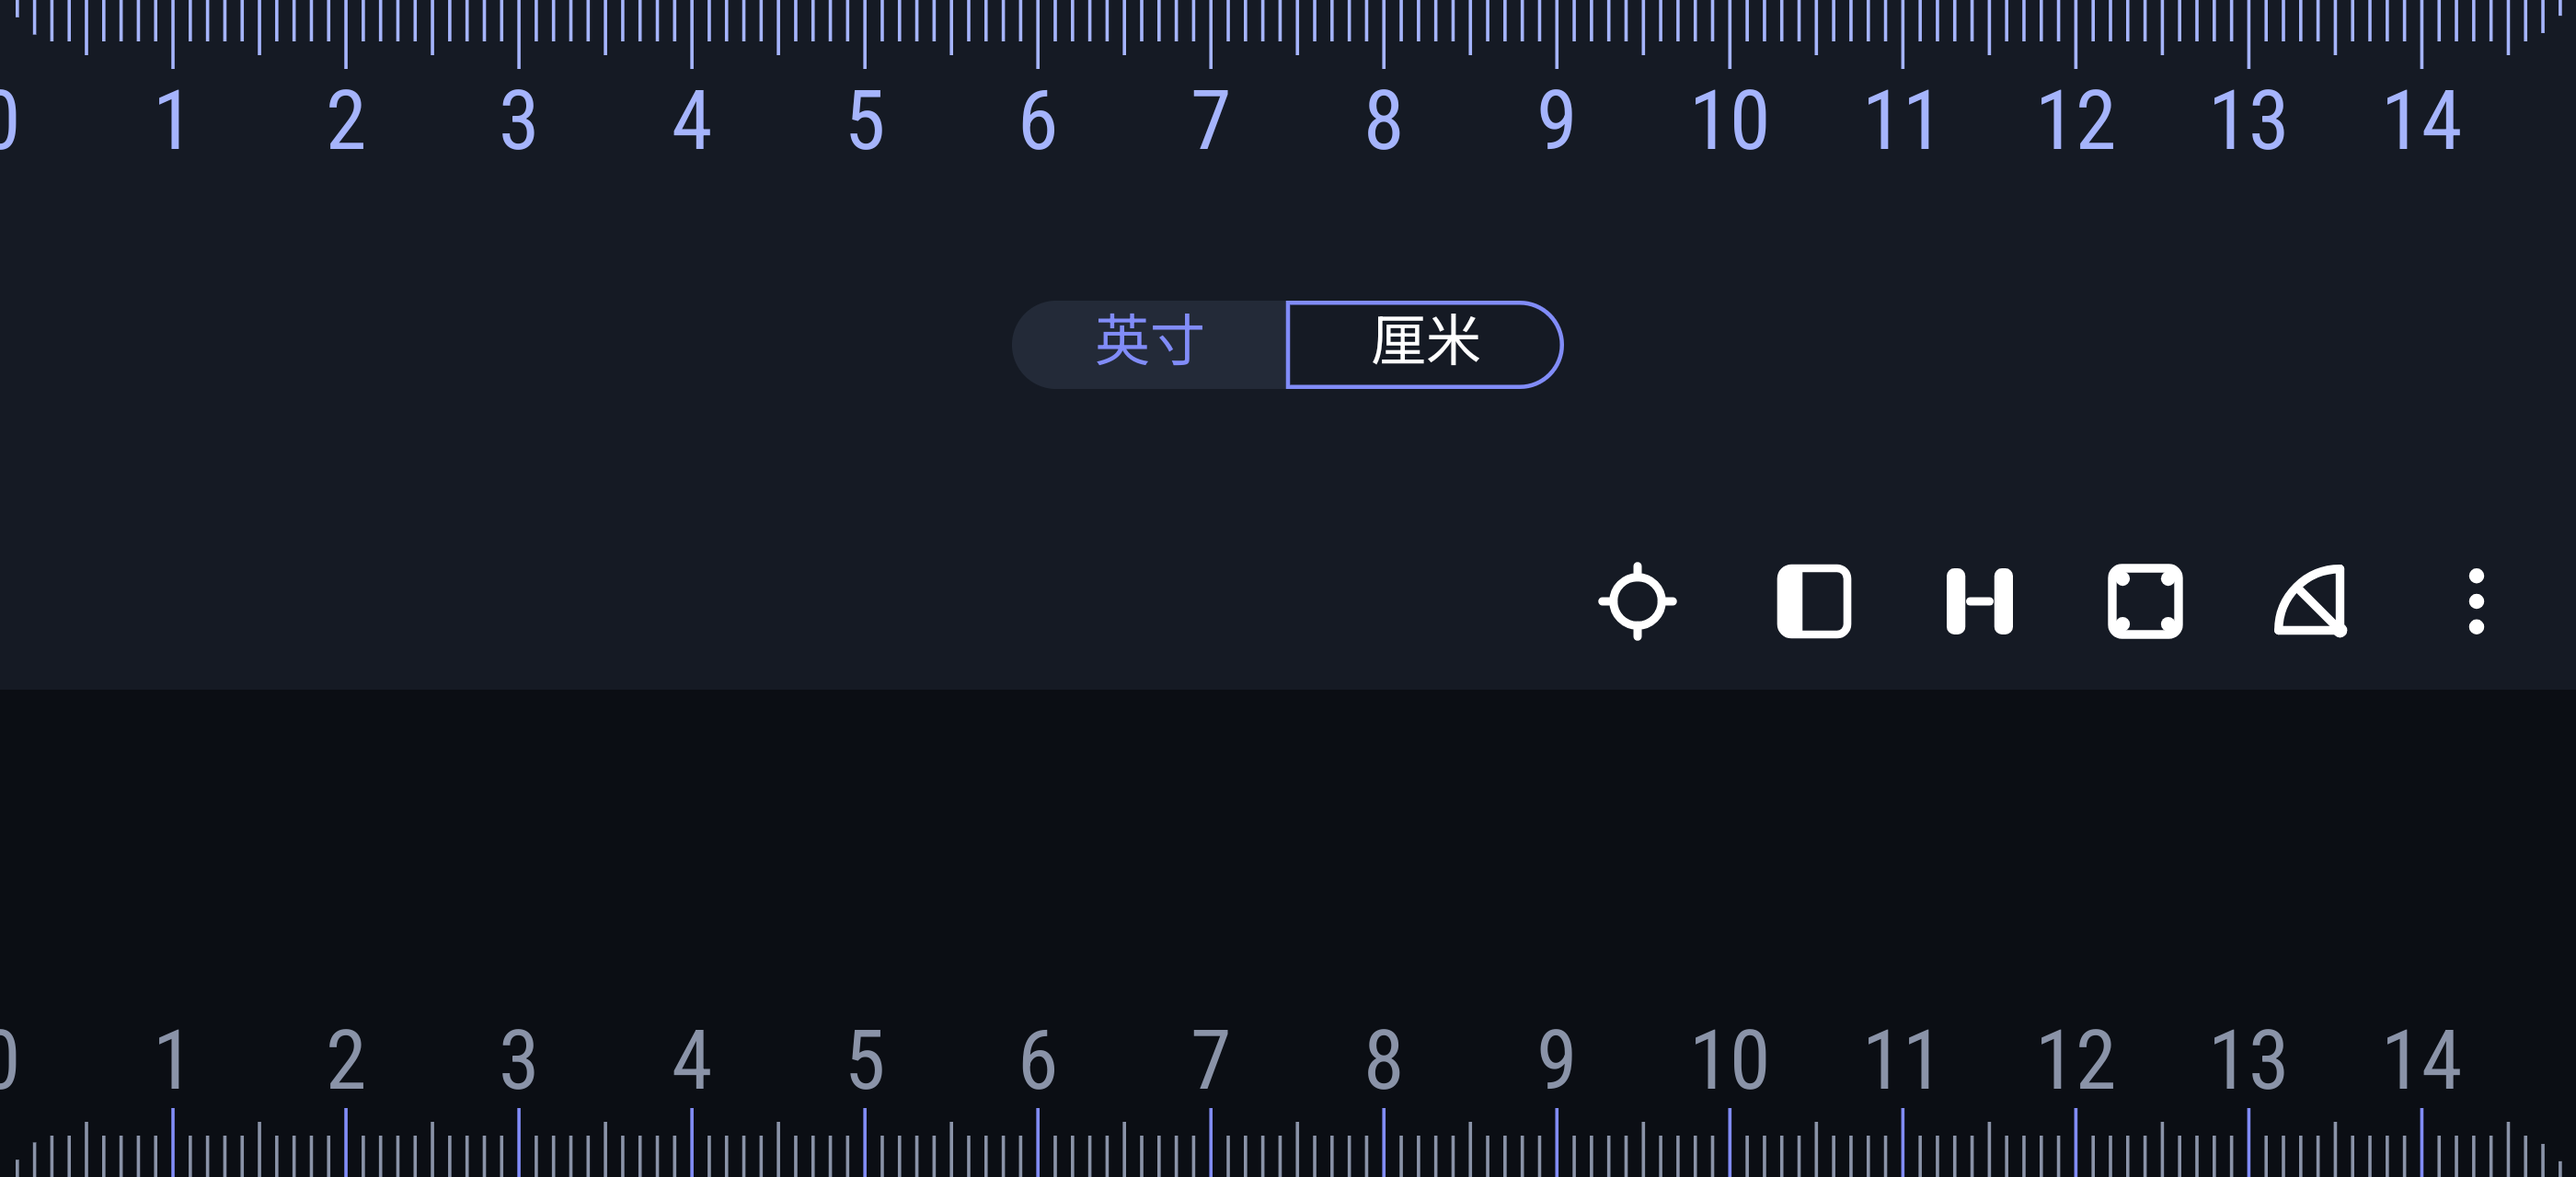
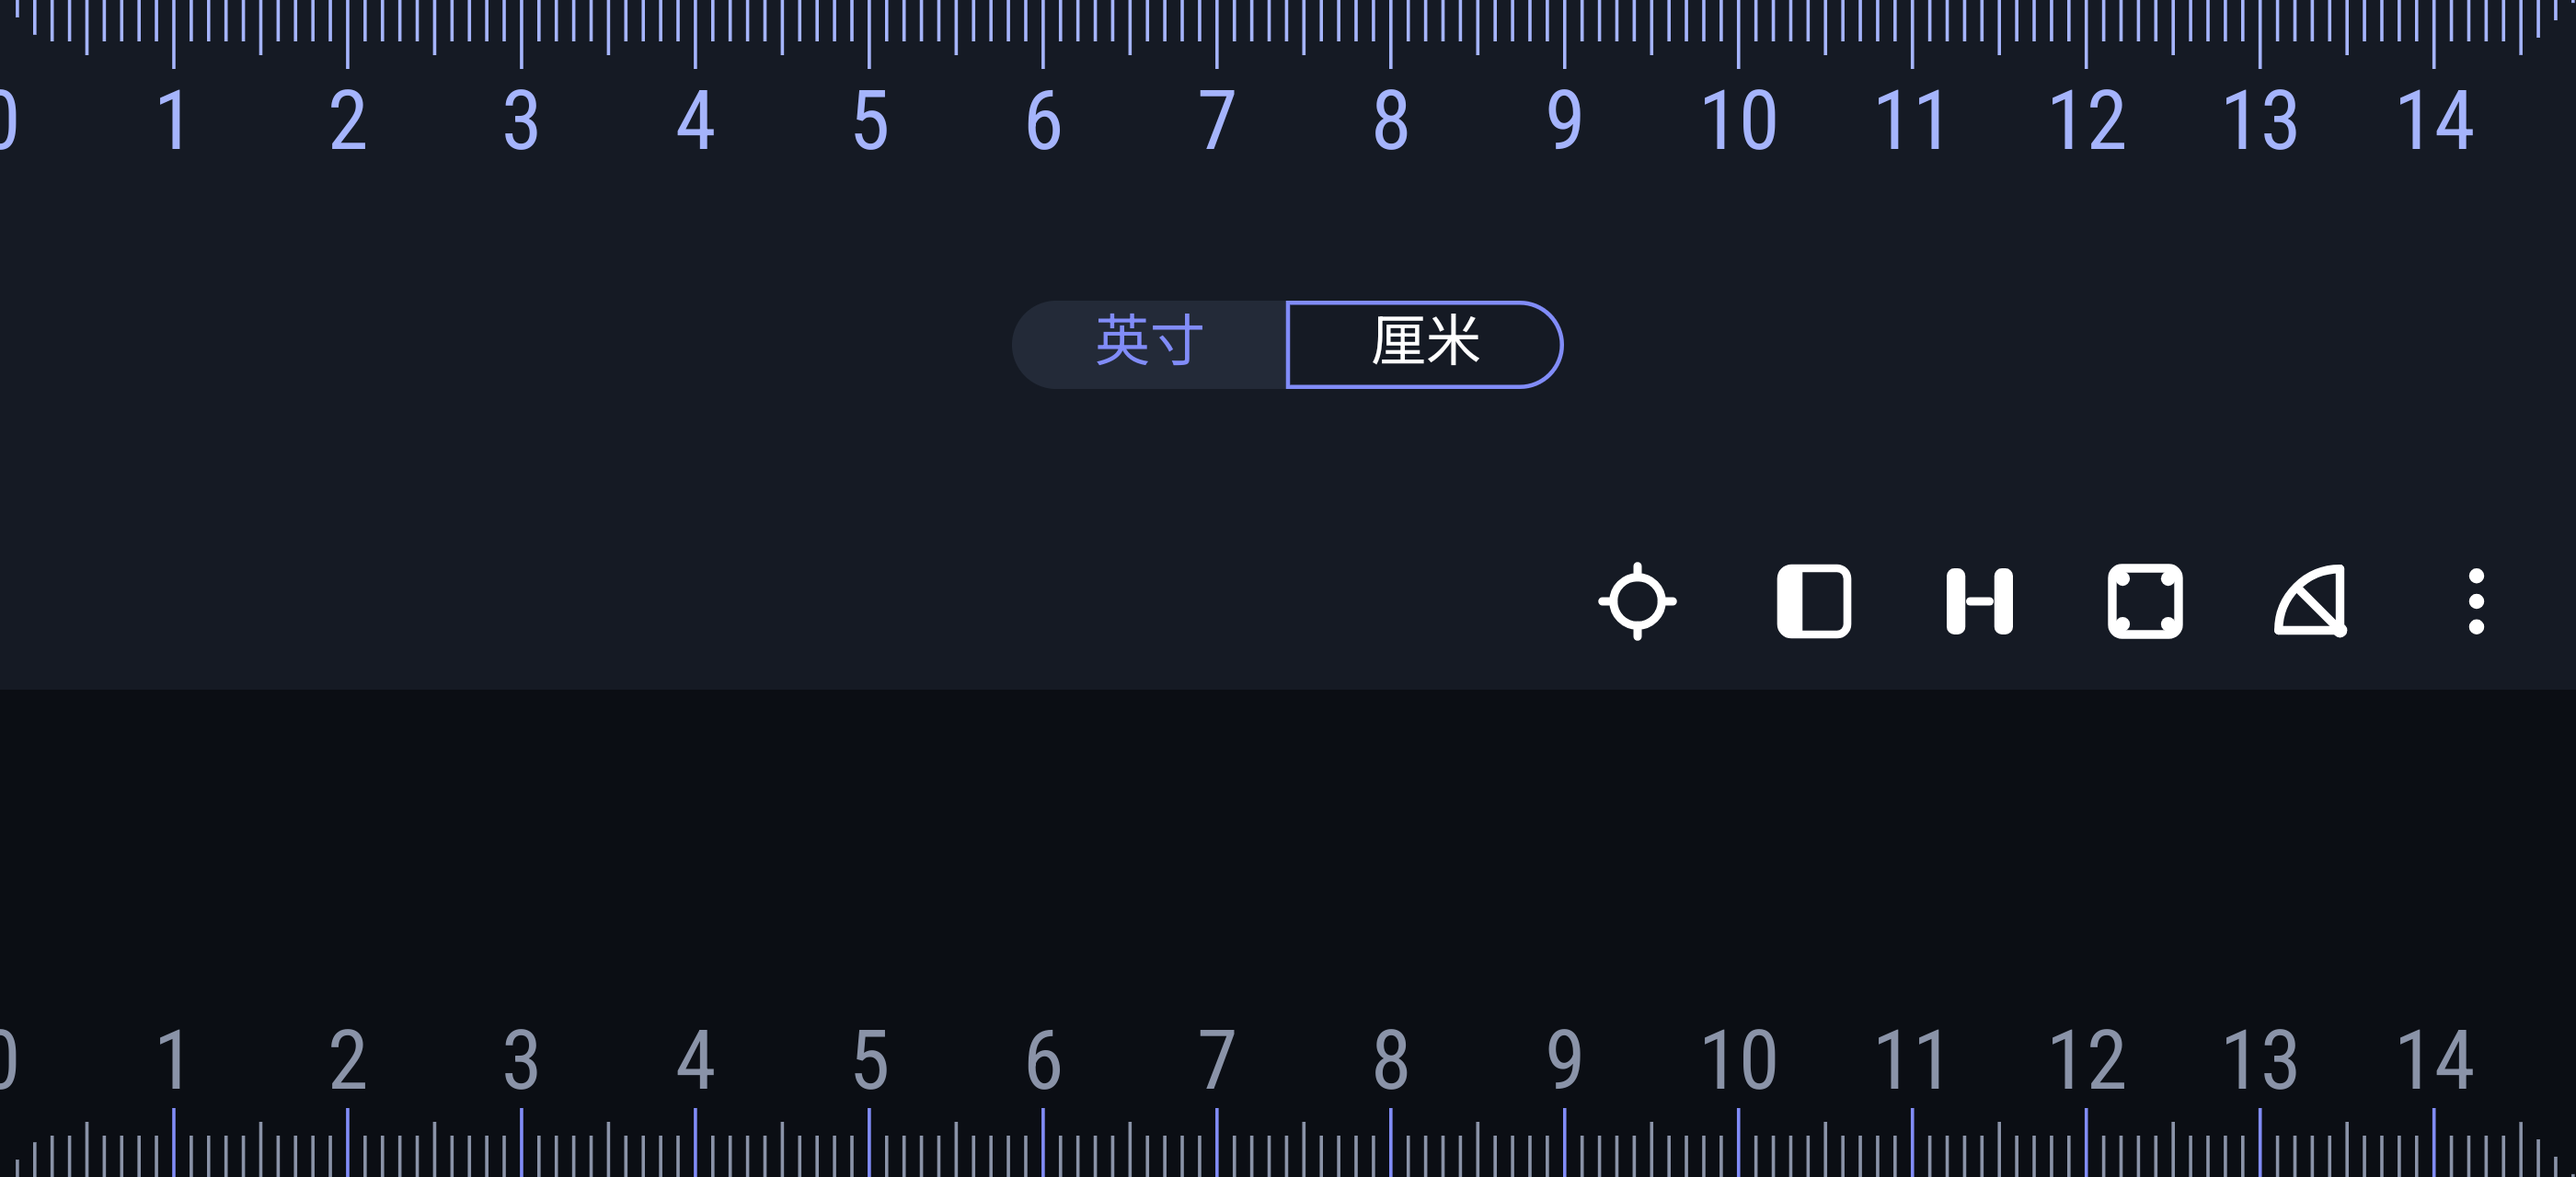
Use one accent colour for every measuring tool, and no tool switch animation
Single point, two points, rectangle and protractor each carried their own
hue, so the app changed palette four times over. They now all draw with the
theme accent: ruler ticks, handles, readouts, the rectangle and the protractor
wedge. The per-mode colour table and the matching colour resources are gone.

The tool bar used to slide out over 220 ms when a tool started; it is shown
and hidden directly now, so switching tools has no animation at all.

diff --git a/app/src/main/java/org/openruler/app/view/MeasureView.kt b/app/src/main/java/org/openruler/app/view/MeasureView.kt
@@ -212,23 +212,23 @@ class MeasureView @JvmOverloads constructor(
     override fun onDraw(canvas: Canvas) {
         super.onDraw(canvas)
         if (width == 0 || height == 0) return
-        val modeColor = palette.colorOf(mode)
+        val toolColor = palette.accent
         val r = rect
 
-        fillPaint.color = modeColor
+        fillPaint.color = toolColor
         canvas.drawRect(r, fillPaint)
 
-        handlePaint.color = dim(modeColor, 0.7f)
+        handlePaint.color = dim(toolColor, 0.7f)
         canvas.drawLine(right.x, r.top, right.x, r.bottom, handlePaint)
         if (mode == MeasureMode.FOUR_POINT) {
             canvas.drawLine(r.left, right.y, r.right, right.y, handlePaint)
         }
 
-        linePaint.color = modeColor
-        valuePaint.color = modeColor
-        unitPaint.color = modeColor
-        smallPaint.color = modeColor
-        areaPaint.color = modeColor
+        linePaint.color = toolColor
+        valuePaint.color = toolColor
+        unitPaint.color = toolColor
+        smallPaint.color = toolColor
+        areaPaint.color = toolColor
 
         val unitText = unitLabel()
         val valueText = String.format(Locale.ROOT, "%.2f", measuredWidthValue)
@@ -248,11 +248,11 @@ class MeasureView @JvmOverloads constructor(
             val widthCenter = r.centerX()
                 .coerceInSafe(widthBlock / 2f + margin, width - widthBlock / 2f - margin)
             val widthLeft = widthCenter - widthBlock / 2f
-            drawDualText(canvas, valueText, widthLeft + valueWidth, widthBaseline, valuePaint, r, modeColor)
-            drawDualText(canvas, unitText, widthLeft + valueWidth + margin, widthBaseline, smallPaint, r, modeColor)
+            drawDualText(canvas, valueText, widthLeft + valueWidth, widthBaseline, valuePaint, r, toolColor)
+            drawDualText(canvas, unitText, widthLeft + valueWidth + margin, widthBaseline, smallPaint, r, toolColor)
             drawWidthDimension(
                 canvas, r, widthBaseline - textHeight / 2f,
-                widthLeft - margin, widthLeft + widthBlock + margin, modeColor
+                widthLeft - margin, widthLeft + widthBlock + margin, toolColor
             )
 
             // Height of the rectangle: dimension line on the right, label in the middle of it.
@@ -261,11 +261,11 @@ class MeasureView @JvmOverloads constructor(
                 .coerceInSafe(textHeight + margin, height - margin)
             val heightLeft = (r.right + margin)
                 .coerceAtMost(width - heightBlock - margin)
-            drawDualText(canvas, heightText, heightLeft + heightWidth, heightBaseline, valuePaint, r, modeColor)
-            drawDualText(canvas, unitText, heightLeft + heightWidth + margin, heightBaseline, smallPaint, r, modeColor)
+            drawDualText(canvas, heightText, heightLeft + heightWidth, heightBaseline, valuePaint, r, toolColor)
+            drawDualText(canvas, unitText, heightLeft + heightWidth + margin, heightBaseline, smallPaint, r, toolColor)
             drawHeightDimension(
                 canvas, r, heightLeft + heightBlock / 2f,
-                heightBaseline - textHeight - margin, heightBaseline + margin, modeColor
+                heightBaseline - textHeight - margin, heightBaseline + margin, toolColor
             )
 
             drawArea(canvas, unitText)
@@ -276,8 +276,8 @@ class MeasureView @JvmOverloads constructor(
                 r.right + margin,
                 width - margin - valueWidth - unitWidth - margin
             ).coerceAtLeast(margin)
-            drawDualText(canvas, valueText, blockStart + valueWidth, baseline, valuePaint, r, modeColor)
-            drawDualText(canvas, unitText, blockStart + valueWidth + margin, baseline, smallPaint, r, modeColor)
+            drawDualText(canvas, valueText, blockStart + valueWidth, baseline, valuePaint, r, toolColor)
+            drawDualText(canvas, unitText, blockStart + valueWidth + margin, baseline, smallPaint, r, toolColor)
         }
     }
 
@@ -329,13 +329,13 @@ class MeasureView @JvmOverloads constructor(
         baseline: Float,
         paint: Paint,
         area: RectF,
-        modeColor: Int
+        toolColor: Int
     ) {
-        paint.color = modeColor
+        paint.color = toolColor
         canvas.drawText(text, x, baseline, paint)
         val save = canvas.save()
         canvas.clipRect(area)
-        paint.color = contrastOn(modeColor)
+        paint.color = contrastOn(toolColor)
         canvas.drawText(text, x, baseline, paint)
         canvas.restoreToCount(save)
     }

diff --git a/app/src/main/java/org/openruler/app/MainActivity.kt b/app/src/main/java/org/openruler/app/MainActivity.kt
@@ -86,7 +86,7 @@ class MainActivity : BaseActivity() {
                 savedInstanceState.getString(STATE_MODE, MeasureMode.ONE_POINT.name)
                     ?: MeasureMode.ONE_POINT.name
             )
-            startMeasuring(saved, animate = false)
+            startMeasuring(saved)
             if (saved == MeasureMode.PROTRACTOR) {
                 protractor.restore(
                     savedInstanceState.getFloat(STATE_ARM_A, 45f),
@@ -151,10 +151,10 @@ class MainActivity : BaseActivity() {
 
     // region measuring
 
-    private fun startMeasuring(tool: MeasureMode, animate: Boolean = true) {
+    private fun startMeasuring(tool: MeasureMode) {
         mode = tool
         measuring = true
-        val color = palette.colorOf(tool)
+        val color = palette.accent
         ruler.mode = tool
         ruler.mainColor = color
         ruler.topScaleColor = null
@@ -180,7 +180,7 @@ class MainActivity : BaseActivity() {
             }
         }
         styleCloseButton(color)
-        setToolBarVisible(!animate)
+        setToolBarVisible(false)
         closeButton.visibility = View.VISIBLE
     }
 
@@ -204,17 +204,7 @@ class MainActivity : BaseActivity() {
     }
 
     private fun setToolBarVisible(visible: Boolean) {
-        toolBar.animate().cancel()
-        if (visible) {
-            toolBar.visibility = View.VISIBLE
-            toolBar.animate().translationY(0f).setDuration(220).start()
-        } else {
-            toolBar.animate()
-                .translationY(-toolBar.height.toFloat())
-                .setDuration(220)
-                .withEndAction { toolBar.visibility = View.INVISIBLE }
-                .start()
-        }
+        toolBar.visibility = if (visible) View.VISIBLE else View.INVISIBLE
     }
 
     // endregion
@@ -246,7 +236,7 @@ class MainActivity : BaseActivity() {
         modeButtons.values.forEach { it.imageTintList = iconTint }
         findViewById<ImageView>(R.id.buttonCalibration).imageTintList = iconTint
         findViewById<ImageView>(R.id.buttonSettings).imageTintList = iconTint
-        if (measuring) styleCloseButton(palette.colorOf(mode))
+        if (measuring) styleCloseButton(palette.accent)
         if (measuring) ruler.topScaleColor = null else ruler.topScaleColor = palette.idleScale
     }
 

diff --git a/app/src/main/java/org/openruler/app/core/Palette.kt b/app/src/main/java/org/openruler/app/core/Palette.kt
@@ -19,7 +19,11 @@ data class Palette(
     val iconOnPanel: Int,
     /** Colour of the idle top scale, which sits inside the tool bar. */
     val idleScale: Int,
-    /** Accent used by dialogs, list rows and the settings screen. */
+    /**
+     * The one accent the app draws with: dialogs, list rows, the settings screen and every
+     * measuring tool - ruler ticks, handles, readouts, the rectangle and the protractor.
+     * The tools share it on purpose, so switching between them does not change the palette.
+     */
     val accent: Int,
     val textPrimary: Int,
     val textSecondary: Int,
@@ -28,11 +32,8 @@ data class Palette(
     val toggleSurface: Int,
     /** Outline drawn around the selected half of a segmented control. */
     val toggleStroke: Int,
-    val modeColors: Map<MeasureMode, Int>,
     val isDark: Boolean
 ) {
-
-    fun colorOf(mode: MeasureMode): Int = modeColors.getValue(mode)
 
     companion object {
 
@@ -49,12 +50,6 @@ data class Palette(
             divider = Color.parseColor("#1A0B1220"),
             toggleSurface = Color.parseColor("#FFFFFF"),
             toggleStroke = Color.parseColor("#FFFFFF"),
-            modeColors = mapOf(
-                MeasureMode.ONE_POINT to Color.parseColor("#2563EB"),
-                MeasureMode.TWO_POINT to Color.parseColor("#059669"),
-                MeasureMode.FOUR_POINT to Color.parseColor("#EA580C"),
-                MeasureMode.PROTRACTOR to Color.parseColor("#7C3AED")
-            ),
             isDark = false
         )
 
@@ -71,12 +66,6 @@ data class Palette(
             divider = Color.parseColor("#262E3D"),
             toggleSurface = Color.parseColor("#232A38"),
             toggleStroke = Color.parseColor("#818CF8"),
-            modeColors = mapOf(
-                MeasureMode.ONE_POINT to Color.parseColor("#60A5FA"),
-                MeasureMode.TWO_POINT to Color.parseColor("#34D399"),
-                MeasureMode.FOUR_POINT to Color.parseColor("#FBBF24"),
-                MeasureMode.PROTRACTOR to Color.parseColor("#C084FC")
-            ),
             isDark = true
         )
 

diff --git a/app/src/main/java/org/openruler/app/view/ProtractorView.kt b/app/src/main/java/org/openruler/app/view/ProtractorView.kt
@@ -14,7 +14,6 @@ import kotlin.math.abs
 import kotlin.math.atan2
 import kotlin.math.hypot
 import kotlin.math.min
-import org.openruler.app.core.MeasureMode
 import org.openruler.app.core.Palette
 import java.util.Locale
 
@@ -125,7 +124,7 @@ class ProtractorView @JvmOverloads constructor(
     override fun onDraw(canvas: Canvas) {
         super.onDraw(canvas)
         if (width == 0 || height == 0) return
-        val color = palette.colorOf(MeasureMode.PROTRACTOR)
+        val color = palette.accent
         wedgePaint.color = color
         anglePaint.color = color
 
